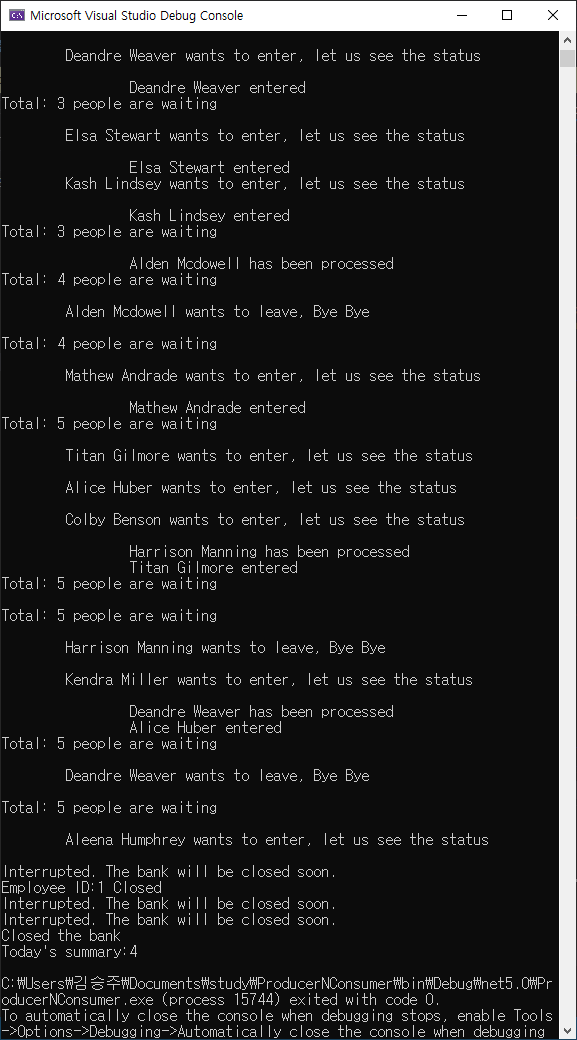
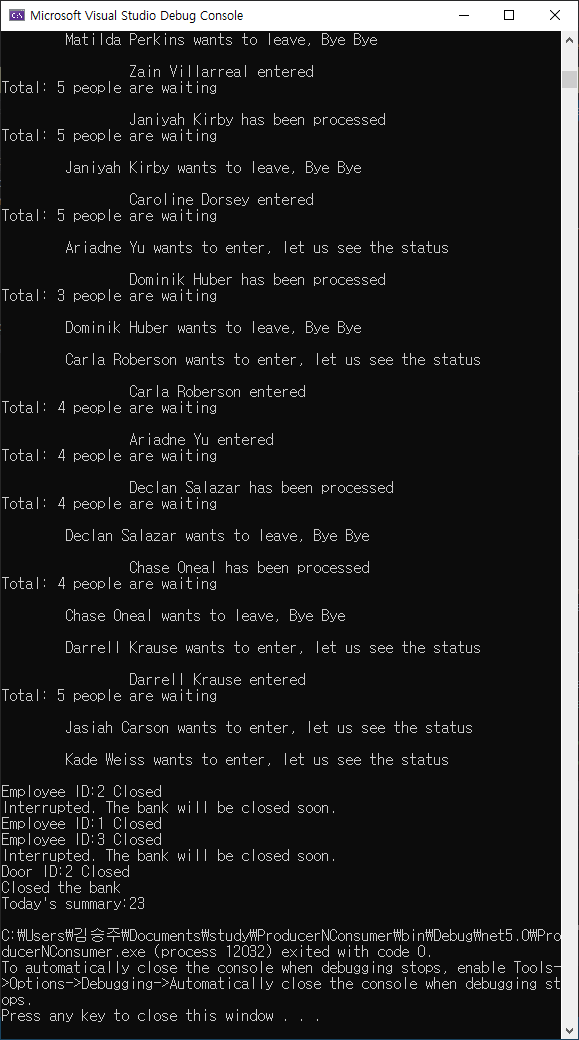
Update img.png

diff --git a/Program.cs b/Program.cs
@@ -12,7 +12,7 @@ namespace ProducerNConsumer
 
         static void Main(string[] args)
         {
-            var bank = new Bank(3,1,5); // 1:1, queuecapa=5
+            var bank = new Bank(3,3,5); // 1:1, queuecapa=5
             bank.open();
             bank.close();
         }
